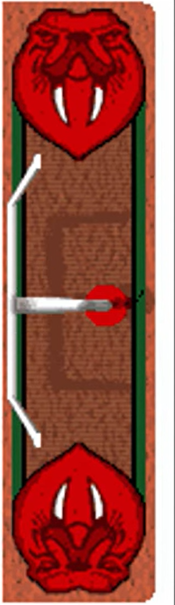
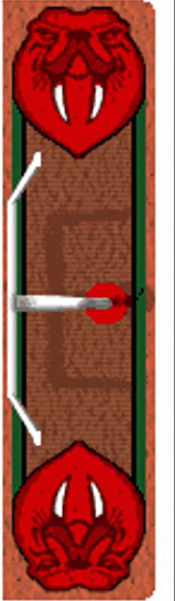
change sideline to margin instead of padding. Adjust scoreboard text position due to sideline change. Remove sideline from endzone image.

diff --git a/TheBestFootballGame.java b/TheBestFootballGame.java
@@ -24,9 +24,13 @@ public class TheBestFootballGame extends JPanel implements KeyListener, MouseLis
     private static final int FIELD_START_X = 2; 
     private static final int FIELD_END_X = GRID_W - 2; 
     
+    // Margins for Sidelines (Outside the grid)
+    private static final int SIDELINE_H = 3; // Height of the white line margin
+    
     private static final int SCOREBOARD_W = (int)(2.5 * TILE_SIZE);
     private static final int WINDOW_W = (VIEW_W * TILE_SIZE) + SCOREBOARD_W;
-    private static final int WINDOW_H = VIEW_H * TILE_SIZE;
+    // Window Height = Playable Grid + Top Margin + Bottom Margin
+    private static final int WINDOW_H = (VIEW_H * TILE_SIZE) + (SIDELINE_H * 2);
 
     // --- Game Constants ---
     private static final int TURN_DELAY = 500; 
@@ -62,7 +66,7 @@ public class TheBestFootballGame extends JPanel implements KeyListener, MouseLis
     private int tdBlinkCount = 0;
     
     // Tackle Logic
-    private Point tackleSource; // To store where the tackler was
+    private Point tackleSource; 
 
     // --- Entities ---
     private Player player;
@@ -152,7 +156,8 @@ public class TheBestFootballGame extends JPanel implements KeyListener, MouseLis
         }
         g.dispose();
 
-        imgGrassTexture = new BufferedImage(VIEW_W * TILE_SIZE, WINDOW_H, BufferedImage.TYPE_INT_ARGB);
+        // Height matches the view area (7 rows)
+        imgGrassTexture = new BufferedImage(VIEW_W * TILE_SIZE, VIEW_H * TILE_SIZE, BufferedImage.TYPE_INT_ARGB);
         Graphics2D fullG = imgGrassTexture.createGraphics();
         for (int x = 0; x < VIEW_W; x++) {
             for (int y = 0; y < VIEW_H; y++) {
@@ -449,7 +454,6 @@ public class TheBestFootballGame extends JPanel implements KeyListener, MouseLis
     private void playerTackled(Defender tackler) {
         playSound(clipThud);
         gameState = GameState.TACKLED;
-        // Store the location of the defender involved for the Flash calculation
         tackleSource = new Point(tackler.x, tackler.y); 
         
         defenderTimer.stop(); gameClock.stop();
@@ -490,9 +494,16 @@ public class TheBestFootballGame extends JPanel implements KeyListener, MouseLis
         super.paintComponent(g);
         if (gameState == GameState.MENU) { drawStartScreen(g); return; }
         
+        // Field drawn first (offset by top margin)
         drawField(g);
-        drawSidelines(g);
+        
+        // Entities drawn on top of field (offset by top margin)
         drawEntities(g);
+        
+        // Sidelines drawn in the margins
+        drawSidelines(g);
+        
+        // Scoreboard on top
         drawScoreboard(g);
         
         if (gameState == GameState.TOUCHDOWN && showTDSprite) drawTouchdownAnim(g);
@@ -500,32 +511,29 @@ public class TheBestFootballGame extends JPanel implements KeyListener, MouseLis
     }
 
     private void drawStartScreen(Graphics g) {
-        // Start Background Color: 1, 128, 1
         g.setColor(new Color(1, 128, 1)); 
         g.fillRect(0, 0, WINDOW_W, WINDOW_H);
         
-        // Circle Color: 1, 96, 1
         g.setColor(new Color(1, 96, 1)); 
-        
-        // Reverting to the larger size as requested
         int circleSize = 280;
         g.fillOval(WINDOW_W/2 - circleSize/2, WINDOW_H/2 - circleSize/2, circleSize, circleSize);
         
         g.setColor(Color.WHITE); 
-        // Increased font size for larger circle fit
         g.setFont(new Font("Arial", Font.BOLD, 22));
         String msg = "Click here to start!";
         FontMetrics fm = g.getFontMetrics();
-        // Center visually
         g.drawString(msg, WINDOW_W/2 - fm.stringWidth(msg)/2, WINDOW_H/2 + 8);
     }
 
     private void drawField(Graphics g) {
-        if (imgGrassTexture != null) g.drawImage(imgGrassTexture, 0, 0, null);
+        // Apply Top Margin Offset
+        int offsetY = SIDELINE_H;
+        
+        if (imgGrassTexture != null) g.drawImage(imgGrassTexture, 0, offsetY, null);
         
         int logoGridX = 20; 
         int logoDrawX = (logoGridX - cameraX) * TILE_SIZE;
-        int logoDrawY = (WINDOW_H / 2) - (4 * TILE_SIZE / 2);
+        int logoDrawY = (VIEW_H * TILE_SIZE / 2) - (4 * TILE_SIZE / 2) + offsetY;
         
         if (imgMidfieldLogo != null) {
              if (logoDrawX + 4 * TILE_SIZE > 0 && logoDrawX < VIEW_W * TILE_SIZE) {
@@ -539,20 +547,20 @@ public class TheBestFootballGame extends JPanel implements KeyListener, MouseLis
             
             if (gridX >= FIELD_START_X && gridX <= FIELD_END_X - 1) {
                 g.setColor(new Color(255, 255, 255, 100)); 
-                g.fillRect(drawX, 0, 2, WINDOW_H);
+                g.fillRect(drawX, offsetY, 2, VIEW_H * TILE_SIZE);
             }
             
             if (gridX < FIELD_START_X) { 
-                drawEndzoneSlice(g, imgEndzoneLeft, gridX, drawX, Color.BLUE);
+                drawEndzoneSlice(g, imgEndzoneLeft, gridX, drawX, offsetY, Color.BLUE);
             }
             if (gridX >= FIELD_END_X) { 
-                drawEndzoneSlice(g, imgEndzoneRight, gridX - FIELD_END_X, drawX, Color.RED);
+                drawEndzoneSlice(g, imgEndzoneRight, gridX - FIELD_END_X, drawX, offsetY, Color.RED);
             }
         }
     }
     
-    private void drawEndzoneSlice(Graphics g, BufferedImage img, int sliceIndex, int drawX, Color fallback) {
-        int drawY = 0; int sliceHeight = WINDOW_H;
+    private void drawEndzoneSlice(Graphics g, BufferedImage img, int sliceIndex, int drawX, int drawY, Color fallback) {
+        int sliceHeight = VIEW_H * TILE_SIZE;
         if (img == null) { 
             g.setColor(fallback); g.fillRect(drawX, drawY, TILE_SIZE, sliceHeight);
             return;
@@ -565,20 +573,17 @@ public class TheBestFootballGame extends JPanel implements KeyListener, MouseLis
 
     private void drawSidelines(Graphics g) {
         g.setColor(SIDELINE_COLOR);
-        g.fillRect(0, 0, VIEW_W * TILE_SIZE, 3);
-        g.fillRect(0, WINDOW_H - 3, VIEW_W * TILE_SIZE, 3);
+        g.fillRect(0, 0, VIEW_W * TILE_SIZE, SIDELINE_H); // Top Margin
+        g.fillRect(0, WINDOW_H - SIDELINE_H, VIEW_W * TILE_SIZE, SIDELINE_H); // Bottom Margin
     }
 
     private void drawEntities(Graphics g) {
         int offX = -cameraX * TILE_SIZE;
-        int offY = 0; 
+        int offY = SIDELINE_H; // Offset entities by top margin
         
-        // 1. Knocked Defenders
         for (Defender d : defenders) if (d.isKnockedDown) drawSprite(g, imgDefenderKnocked, d.x, d.y, offX, offY, false);
 
-        // 2. Player (or Tackled Sprite)
         if (gameState == GameState.TACKLED && imgPlayerTackled != null) {
-            // Draw the Tackled Player Sprite (replaces normal player)
             drawSprite(g, imgPlayerTackled, player.x, player.y, offX, offY, false);
         } else {
             BufferedImage sprite = imgPlayerStandLeft;
@@ -589,28 +594,22 @@ public class TheBestFootballGame extends JPanel implements KeyListener, MouseLis
             drawSprite(g, sprite, player.x, player.y, offX, offY, flip);
         }
 
-        // 3. Active Defenders
         for (Defender d : defenders) if (!d.isKnockedDown) drawSprite(g, imgDefenderRight, d.x, d.y, offX, offY, !d.facingRight);
-        
-        // 4. Referees
         for (Referee r : referees) drawSprite(g, imgRefRight, r.x, r.y, offX, offY, !r.facingRight);
 
-        // 5. Tackle Flash (TOP LAYER)
+        // Tackle Flash (Top Layer)
         if (gameState == GameState.TACKLED && imgTackleFlash != null && tackleSource != null) {
             int pX = (player.x * TILE_SIZE) + offX;
             int pY = (player.y * TILE_SIZE) + offY;
             int dX = (tackleSource.x * TILE_SIZE) + offX;
             int dY = (tackleSource.y * TILE_SIZE) + offY;
             
-            // Calculate Center of the space between the two tiles
             int midX = (pX + dX + TILE_SIZE) / 2;
             int midY = (pY + dY + TILE_SIZE) / 2;
             
-            // Reduced Vertical Size: 2x Grid Width, 1x Grid Height
-            int flashW = TILE_SIZE * 2; // 96px
-            int flashH = TILE_SIZE;     // 48px
+            int flashW = TILE_SIZE * 2; 
+            int flashH = TILE_SIZE;     
             
-            // Draw centered
             g.drawImage(imgTackleFlash, midX - flashW/2, midY - flashH/2, flashW, flashH, null);
         }
     }
@@ -637,15 +636,15 @@ public class TheBestFootballGame extends JPanel implements KeyListener, MouseLis
         g.setColor(Color.BLACK); g.fillRect(x, 0, SCOREBOARD_W, WINDOW_H);
         if (imgScoreboard != null) g.drawImage(imgScoreboard, x, 0, SCOREBOARD_W, WINDOW_H, null);
         
-        g.setColor(Color.BLACK); g.setFont(new Font("Impact", Font.PLAIN, 20));
+        g.setColor(Color.BLACK); g.setFont(new Font("Impact", Font.PLAIN, 21));
         
         drawCenteredText(g, String.valueOf(timeRemaining), x + SCOREBOARD_W/2, 74); 
-        drawCenteredText(g, String.valueOf(score), x + SCOREBOARD_W/2, 137);        
+        drawCenteredText(g, String.valueOf(score), x + SCOREBOARD_W/2, 139);        
         
         double yards = Math.max(0, (player.x - (FIELD_START_X - 1)) * 2.5);
-        drawCenteredText(g, df.format(yards), x + SCOREBOARD_W/2, 220);
+        drawCenteredText(g, df.format(yards), x + SCOREBOARD_W/2, 224);
         
-        drawCenteredText(g, String.valueOf(attempts), x + SCOREBOARD_W/2, 307);     
+        drawCenteredText(g, String.valueOf(attempts), x + SCOREBOARD_W/2, 313);     
     }
     
     private void drawCenteredText(Graphics g, String text, int x, int y) {
@@ -679,7 +678,7 @@ public class TheBestFootballGame extends JPanel implements KeyListener, MouseLis
         Player(int x, int y) { this.x = x; this.y = y; }
     }
     class Defender {
-        int x, y; boolean isKnockedDown = false, facingRight = true; // Default face Right
+        int x, y; boolean isKnockedDown = false, facingRight = true; 
         Defender(int x, int y) { this.x = x; this.y = y; }
     }
     class Referee {
